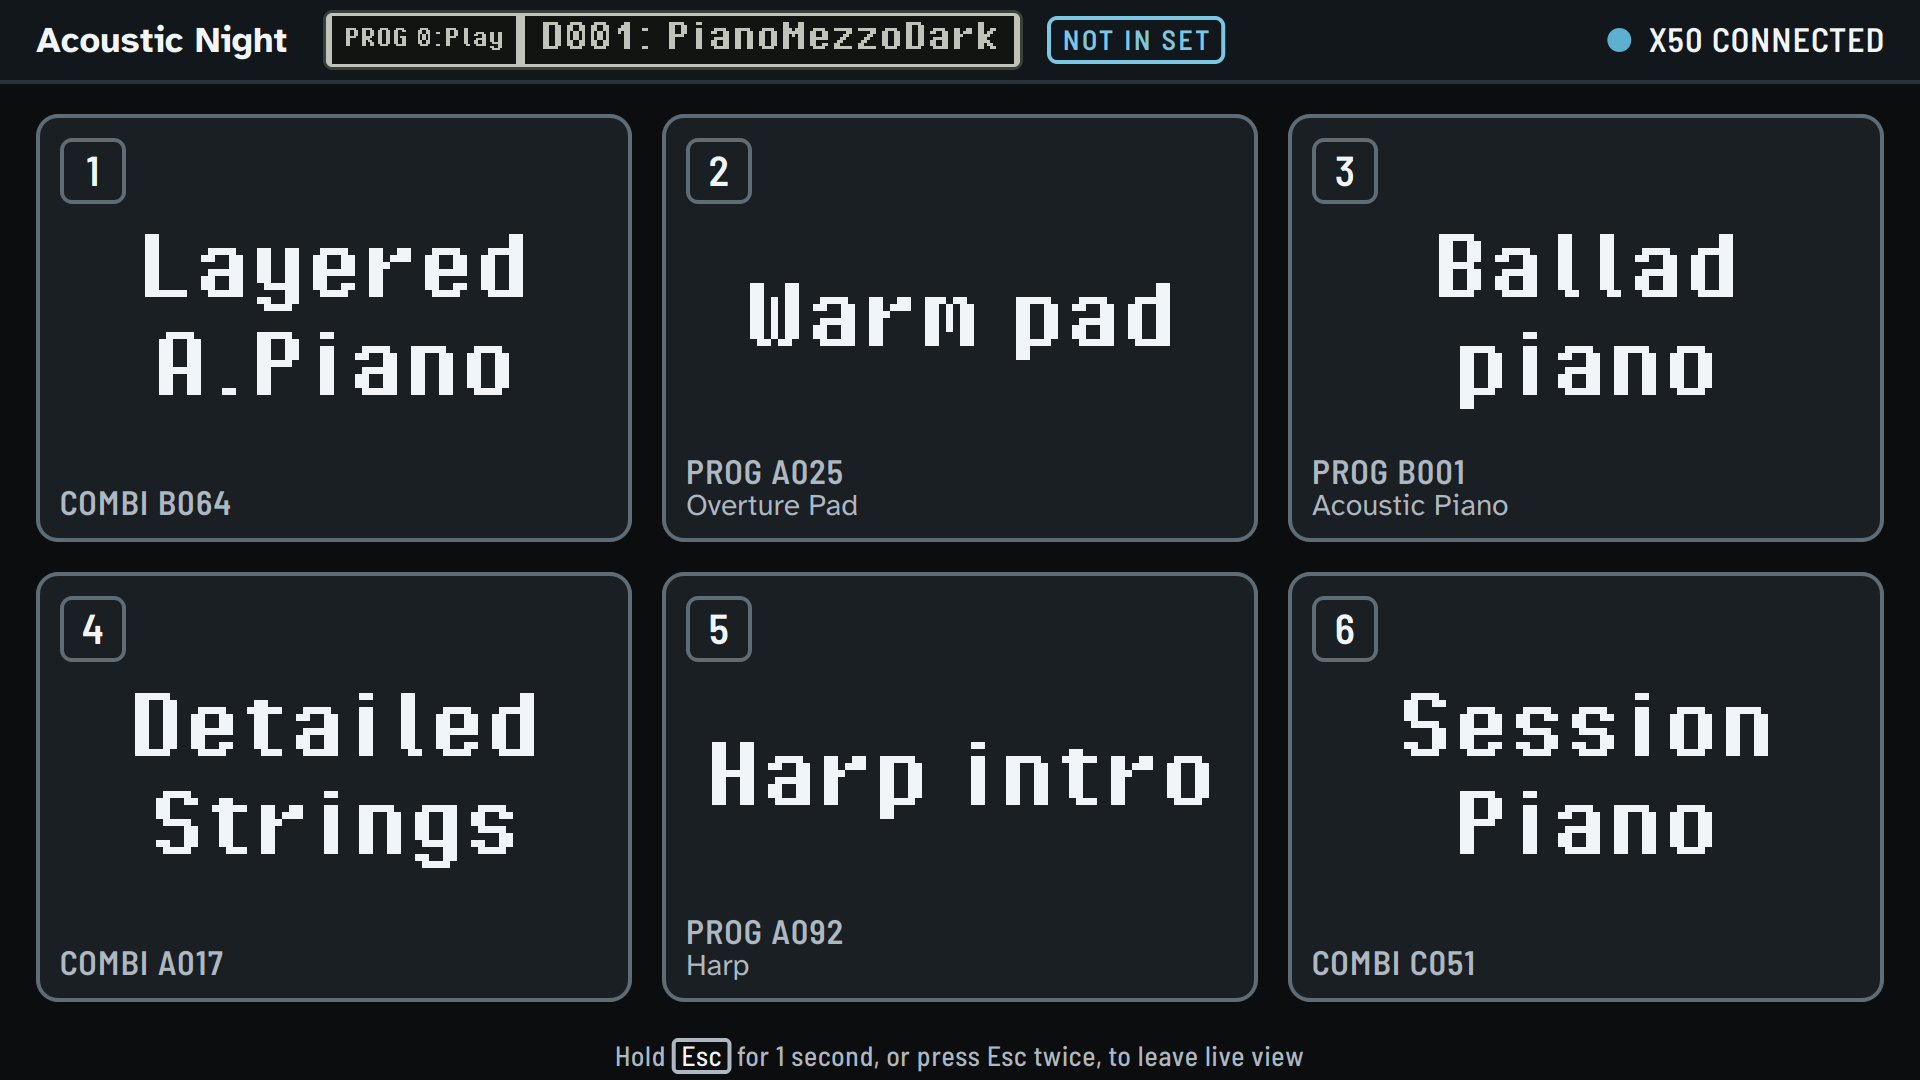
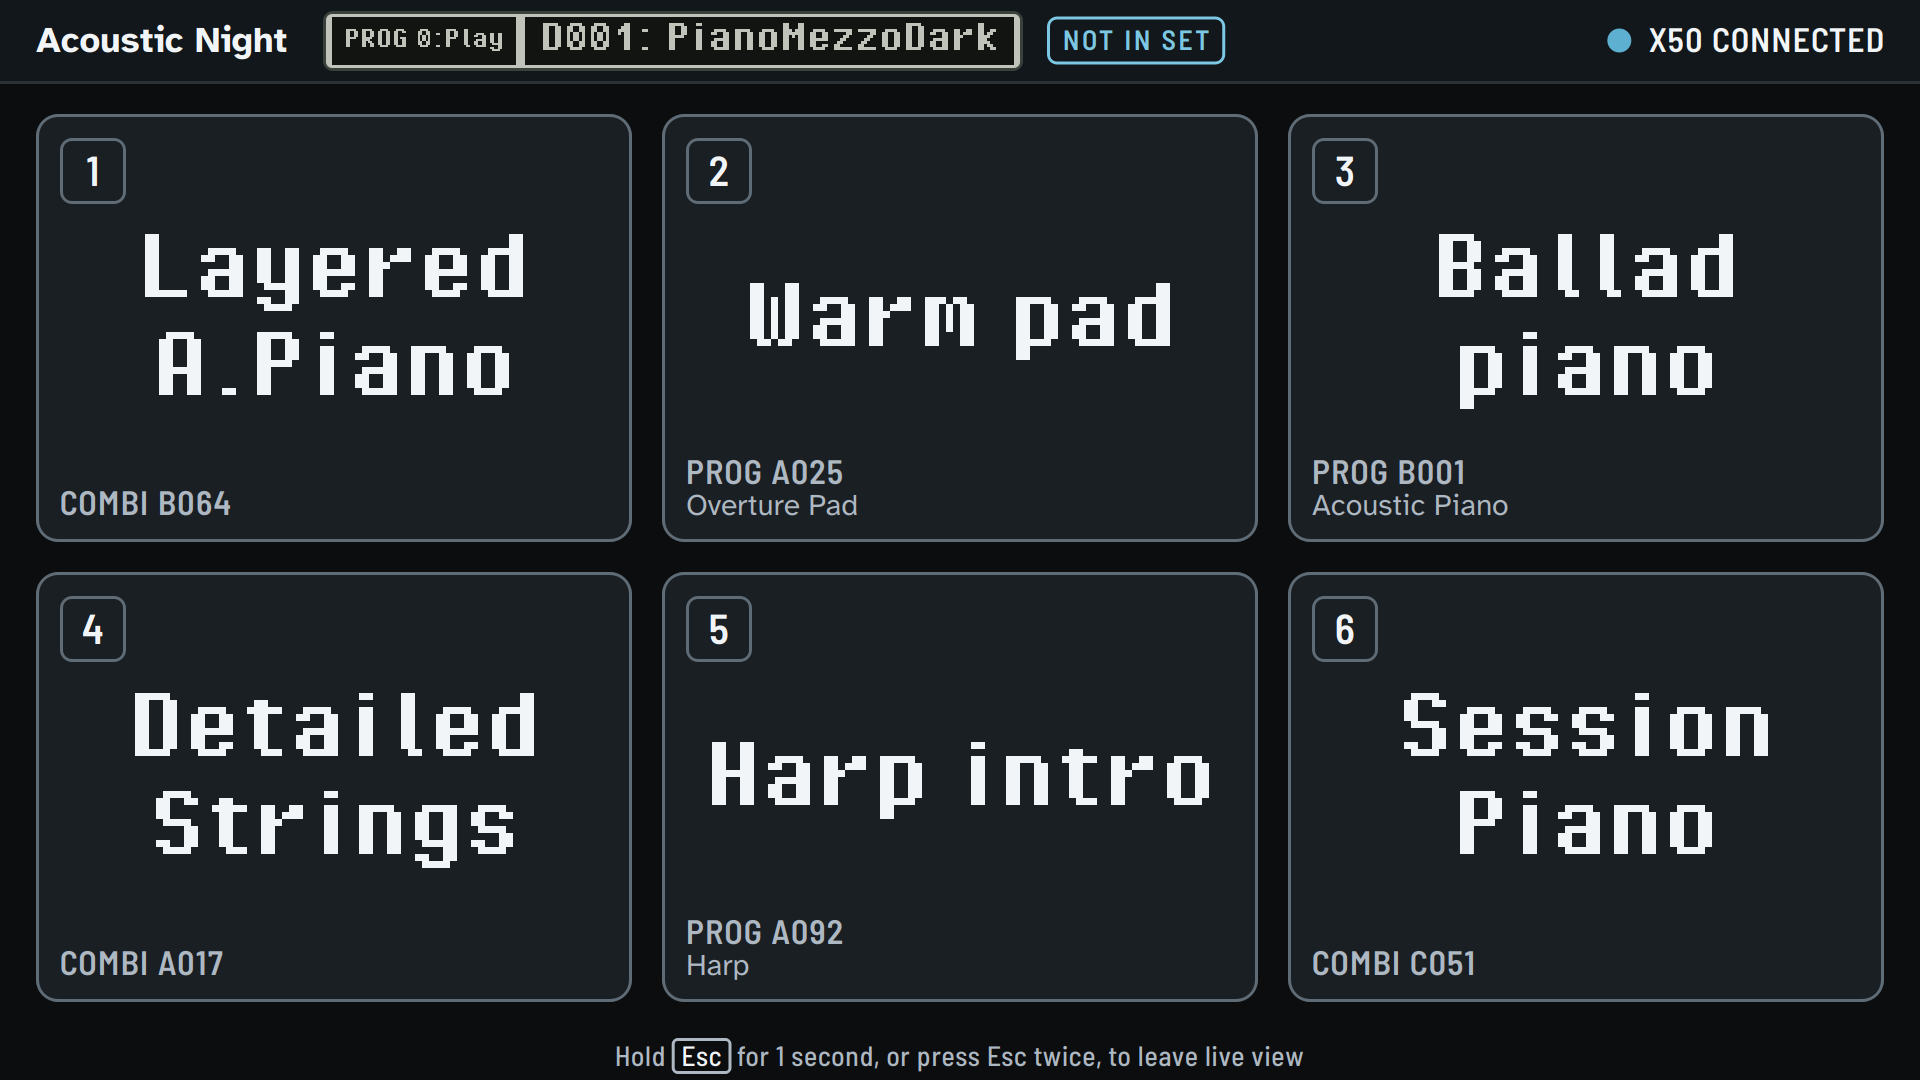
D4 fix: live-view stroke widths rounded in device px (exact at 2x); review screenshots re-rendered
Claude-Session: https://claude.ai/code/session_01HipUJwBBAxFWSRLYyYzfpn

Changed region(s): [[0.2812, 0.0, 0.5312, 0.0306], [0.1875, 0.0, 0.25, 0.0306]]

diff --git a/tests/test_live_view.cpp b/tests/test_live_view.cpp
@@ -168,7 +168,7 @@ private slots:
         QCOMPARE(v.buttonState(0), LiveView::ButtonState::Normal);
         QVERIFY(!v.currentNotInSet());
         const QImage img = grab(v);
-        const int wLit = qMax(1, dv(v, 6)), wNorm = qMax(1, dv(v, 2));
+        const int wLit = qMax(1, qRound(6 * v.unit() * dpr())), wNorm = qMax(1, qRound(2 * v.unit() * dpr()));
 
         const QRect lit = v.buttonRectDevice(1), norm = v.buttonRectDevice(0);
         QCOMPARE(px(img, lit.center().x(), lit.top() + wLit / 2), Theme::text);                // white border
@@ -204,6 +204,36 @@ private slots:
             }
         QVERIFY(dark > 100);
         QCOMPARE(bright, 0);
+    }
+
+    // DESIGN 3.5 / 5.4 (review D4 item 2): stroke device width = max(1, round(w * u * dpr)),
+    // measured on the rendered image: lit border 6u, normal border 2u, top bar rule 2u.
+    void strokeThickness()
+    {
+        LiveView v(&m_cat);
+        v.setSet(friday());
+        v.setCurrentSound(prog(B::D, 104));
+        v.show();
+        const QSize sz = screenLogical(1920, 1080);
+        sizeTo(v, sz.width(), sz.height());
+        const QImage img = grab(v);
+        const double U = v.unit() * dpr();
+        auto run = [&](int x, int y0, int dy, QRgb colour) {
+            int n = 0;
+            for (int y = y0; y >= 0 && y < img.height() && px(img, x, y) == colour; y += dy)
+                ++n;
+            return n;
+        };
+        const QRect lit = v.buttonRectDevice(1), norm = v.buttonRectDevice(0);
+        const int expLit = qMax(1, qRound(6 * U)), expNorm = qMax(1, qRound(2 * U));
+        const int mLit = run(lit.center().x(), lit.top(), 1, Theme::text);
+        const int mNorm = run(norm.center().x(), norm.top(), 1, Theme::lineStrong);
+        const QRect bar = v.barRectDevice();
+        const int mRule = run(2, bar.bottom(), -1, Theme::line);
+        qInfo("scale %.2f: lit %d (exp %d), normal %d (exp %d), rule %d (exp %d)", dpr(), mLit, expLit, mNorm, expNorm, mRule, expNorm);
+        QCOMPARE(mLit, expLit);
+        QCOMPARE(mNorm, expNorm);
+        QCOMPARE(mRule, expNorm);
     }
 
     // DESIGN 5.4 "Empty": no fill, dashed 2u `line` border, "EMPTY" in text-empty, does nothing.

diff --git a/src/ui/LiveView.cpp b/src/ui/LiveView.cpp
@@ -212,6 +212,9 @@ LiveView::ButtonState LiveView::stateOf(int i) const
 
 int LiveView::dv(double designPx) const { return qRound(qRound(designPx * m_u) * m_dpr); }
 
+// Stroke device width (DESIGN 3.5): max(1, round(w * u * dpr)), never rounded in logical px first.
+int LiveView::sd(double designPx) const { return qMax(1, qRound(designPx * m_u * m_dpr)); }
+
 int LiveView::fontPx(double designPx) const
 {
     // DESIGN 2.1: live text other than the big name never renders under 11 logical px.
@@ -279,7 +282,7 @@ void LiveView::buildTools()
     m_radiusBezel = dv(6);
     m_radiusField = dv(4);
     // DESIGN 3.5: stroke device width = max(1, round(w * dpr)), w already multiplied by u.
-    auto sw = [this](double v) { return qreal(qMax(1, dv(v))); };
+    auto sw = [this](double v) { return qreal(sd(v)); };
     m_wNormal = sw(Theme::borderLiveNormal);
     m_wLit = sw(Theme::borderLiveLit);
     m_wPressed = sw(Theme::borderLivePressed);
@@ -314,10 +317,10 @@ void LiveView::buildTools()
     m_penOnRed = QPen(QColor(Theme::onRed));
     m_penLcdInk = QPen(QColor(Theme::lcdInk));
     m_penLcdField = QPen(QColor(Theme::lcdFieldDim));
-    m_penTag = solid(Theme::cyanText, qMax(1, dv(2)));
-    m_penCap = solid(Theme::textDim, qMax(1, dv(2)));
-    m_penCapArmed = solid(Theme::text, qMax(1, dv(2)));
-    const qreal ringW = qMax(1, dv(3));
+    m_penTag = solid(Theme::cyanText, sd(2));
+    m_penCap = solid(Theme::textDim, sd(2));
+    m_penCapArmed = solid(Theme::text, sd(2));
+    const qreal ringW = sd(3);
     m_penRing = solid(Theme::red, ringW);
     m_penRing.setCapStyle(Qt::FlatCap);
     m_penRingOnRed = solid(Theme::onRed, ringW);
@@ -462,7 +465,7 @@ void LiveView::layoutBar()
     const int Wd = qRound(W * m_dpr);
     m_bar.rect = QRect(0, 0, W, L(Theme::liveTopBar));
     m_bar.dev = toDevice(m_bar.rect);
-    const int ruleH = qMax(1, dv(2));
+    const int ruleH = sd(2);
     m_bar.ruleDev = QRect(0, m_bar.dev.bottom() + 1 - ruleH, Wd, ruleH);
     const int pad = dv(Theme::liveMargin), gap24 = dv(24);
     const double cy = (m_bar.dev.height() - ruleH) / 2.0;

diff --git a/src/ui/LiveView.h b/src/ui/LiveView.h
@@ -214,6 +214,7 @@ private:
     void buildTools();
     void syncScale();
     int dv(double designPx) const;            // round(round(v * u) * dpr)
+    int sd(double designPx) const;            // stroke width: max(1, round(v * u * dpr))
     int fontPx(double designPx) const;        // device px of a live text size, 11 px floor
     QRect toDevice(const QRect &logical) const;
     void prep(QStaticText &st, const QString &text, const QFont &font, int wrapWidth = -1) const;

diff --git a/docs/PLAN.md b/docs/PLAN.md
@@ -144,7 +144,7 @@ on the live mockups, that is the moment to send them to her.
   CI-built, behaviour confirmed at G3.
 - ☑ **T4.4 Footprint.** `scripts/measure-footprint.sh` (Linux) and the CI Windows job
   printing working-set size after start; within SPEC §5.
-- ☐ **D4 Design review** of live view at 1×, 1.25×, 1.5×, 2×.
+- ☑ **D4 Design review** of live view at 1×, 1.25×, 1.5×, 2×.
 - ☐ **R4 Review** (reviewer + Codex), emphasis on input handling and repaint discipline.
 
 **Gate G3 (owner → keyboard player) · beta.** Pre-release `v0.9.0` zip. The foreman
